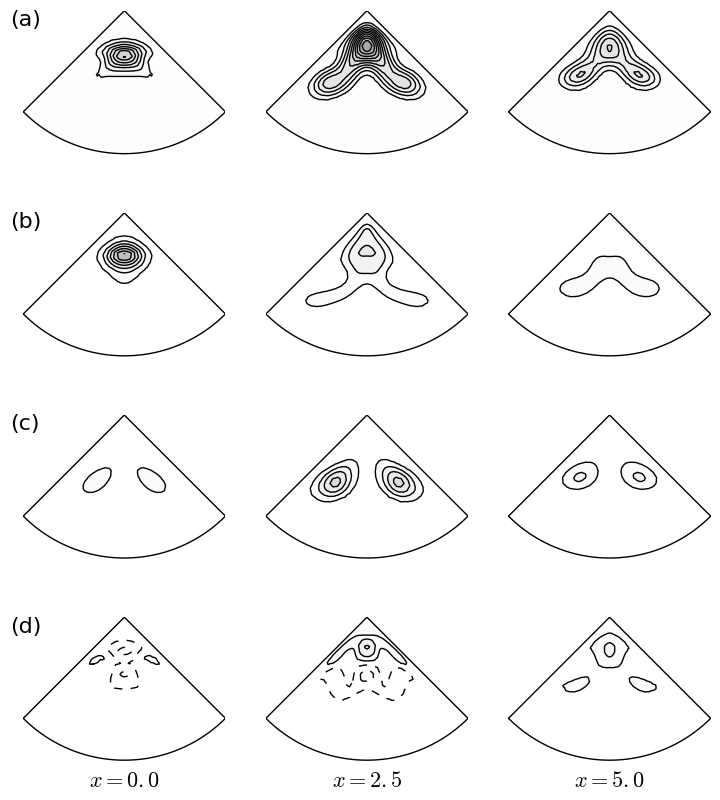
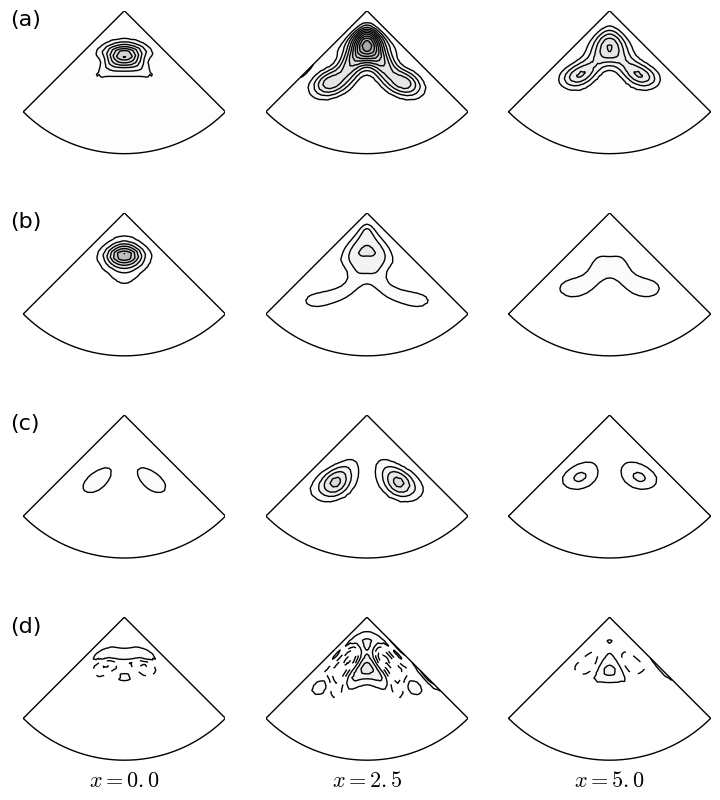
section 3.4 (model puff OX gen) rewrited

Changed region(s): [[0.4278, 0.7812, 0.6111, 0.875], [0.7944, 0.7812, 0.9167, 0.875], [0.1222, 0.7812, 0.2139, 0.875]]

diff --git a/ch3_oxgen.tex b/ch3_oxgen.tex
@@ -110,7 +110,7 @@
 В скалярных переменных уравнение \eqref{ox1_eq} имеет вид:
 \begin{multline}\label{ox2_eq}
 \pd{\omega'_x}{t} + (V_x - c_f)\pd{\omega'_x}{x} + V_r \pd{\omega_x'}{r} + \frac{V_\theta}{r} \pd{\omega'_x}{\theta} 
-- \nu\left(\pd{^2\omega'_x}{x^2} + \pd{^2\omega'_x}{r^2} + \frac{1}{r^2}\pd{^2\omega'_x}{\theta^2} + \frac{1}{r}\pd{\omega'_x}{r}\right) = \\
+- \nu\nabla^2\omega'_x = \\
 - v'_r \pd{\Omega_x}{r} - \frac{v'_\theta}{r} \pd{\Omega_x}{\theta} 
 + \Omega_x \pd{v'_x}{x} + \Omega_r \pd{v'_x}{r} + \frac{\Omega_\theta}{r} \pd{v'_x}{\theta}
 + \omega'_r \pd{V_x}{r} + \frac{\omega'_\theta}{r} \pd{V_x}{\theta} - \\ 
@@ -119,7 +119,7 @@
 + \overline{v'_x \pd{\omega'_x}{x}}^x + \overline{v'_r \pd{\omega'_x}{r}}^x + \overline{\frac{v'_\theta}{r} \pd{\omega'_x}{\theta}}^x
 - \overline{\omega'_x \pd{v'_x}{x}}^x - \overline{\omega'_r \pd{v'_x}{r}}^x - \overline{\frac{\omega'_\theta}{r} \pd{v'_x}{\theta}}^x.
 \end{multline}
-Удобнее работать с уравнением, описывающим изменение среднего квадрата пульсаций продольной завихренности $\overline{\omega'_x\omega'_x}^x$, получающимся умножением каждого из слагаемых в \eqref{ox2_eq} на~$2\omega'_x$ c последующим осреднением вдоль трубы. Слагаемые в этом уравнении не зависят от времени и продольной координаты. Сумма слагаемых в правой части уравнения компенсируется вязкими и конвективными членами в левой части. Как и в предыдущем случае, в правой части уравнения удается выделить существенные слагаемые, ответственные за возникновение пульсаций~$\omega'_x$. 
+Работать удобнее с уравнением, описывающим изменение среднего квадрата пульсаций продольной завихренности $\overline{\omega'_x\omega'_x}^x$, получающимся умножением каждого из слагаемых в \eqref{ox2_eq} на~$2\omega'_x$ c последующим осреднением вдоль трубы. Слагаемые в этом уравнении не зависят от времени и продольной координаты. Сумма слагаемых в правой части уравнения компенсируется вязкими и конвективными членами в левой части. Как и в предыдущем случае, в правой части уравнения удается выделить существенные слагаемые, ответственные за возникновение пульсаций~$\omega'_x$. 
 
 
 Распределение $\overline{\omega'_x \omega'_x}^x$ по сечению трубы изображено на рисунке~\ref{ox1gen_pic}(a). Основные пульсации $\omega'_x$ наблюдаются в центре расчетной области около оси трубы. На месте расположения продольных вихрей также присутствуют пульсации $\omega'_x$, но меньшей интенсивности. В остальной части трубы их амплитуда близка к нулю. Обнаружено, что за генерацию пульсаций $\omega'_x$ в центральной части трубы и на месте продольных вихрей отвечают два разных механизма. Первый дает пульсации большей амплитуды, однако, за возникновение стационарных продольных вихрей ответственны пульсации, производимые вторым механизмом, так как именно они оказываются согласованными с пульсациями $v'_x$ нужным образом.
@@ -161,61 +161,86 @@
 
 \section{Механизм поддержания продольных вихрей и пульсаций продольной завихренности в модельном порыве}
 
-Выделенный при изучении бегущей волны, возникающей в непротяженной расчетной области, механизм образования продольных вихрей может быть обобщен на модельный порыв. В этом случае разделение движения на среднюю и пульсационную составляющие выполняется путем осреднения по времени в системе отсчета, связанной с порывом. Для точной бегущей волны такое осреднение эквивалентно осреднению вдоль трубы. Осреднение по времени позволяет получить те же результаты для точной бегущей волны, и близкие результаты для бегущей волны, выделяемой в модельном порыве. 
+В работе выделен механизм поддержания продольных вихрей в модельном порыве. Это механизм аналогичен механизму, поддерживающему продольные вихри в решении, имеющем вид бегущей волны. При изучении решения, имеющего вид бегущей волны, разделение на среднюю и пульсационную составляющие движения выполняется осреднением вдоль трубы. При изучении модельного порыва осреднение выполняется по времени в сопутствующей системе отсчета. Пусть $\V_{mp} = (V_x, V_r, V_\theta) = \overline{\v_{mp}}^t$ и $\v'_{mp} = (v'_x, v'_r, v'_\theta) = (\v_{mp} - \V_{mp}$) --- средняя и пульсационная составляющие поля скорости модельного порыва $\v_{mp} = (v_x, v_r, v_\theta)$, а $\Om_{mp} = (\Omega_x, \Omega_r, \Omega_\theta) = \rot \V_{mp}$ и $\om'_{mp} = (\omega'_x, \omega'_r, \omega'_\theta) = \rot \v'_{mp}$ --- средняя и пульсационная составляющие поля завихренности $\om_{mp} = (\omega_x, \omega_r, \omega_\theta) = \rot \v_{mp}$ (<<mp>> --- <<model puff>>). 
 
-Разделим поле скорости модельного порыва $\v_{mp}$ на среднюю $\V_{mp} = \overline{\v_{mp}}^t$ и пульсационную $\v'_{mp} = \v_{mp} - \V_{mp}$ составляющие (<<mp>> --- <<model puff>>). Соответственно, завихренность стационарной и пульсационной составляющих движения обозначим $\Om_{mp} = \rot \V_{mp}$ и $\om'_{mp} = \rot \v'_{mp}$. Отметим, что завихренность стационарной составляющей движения равна стационарной составляющей поля завихренности: $\Om = \overline{\om}^t$, где $\om = \rot \v$ --- поле завихренности. Аналогично, завихренность пульсационной составляющей движения равна пульсационной составляющей поля завихренности: $\om' = \om - \Om$. 
-
-Как и в случае бегущей волны, стационарная составляющая поля скорости модельного порыва воспроизводит продольные вихри (смотри рисунок \ref{VEL_cs_pic}). В расчетную область попадает пара таких вихрей. Они ответственны за образование полос повышенной и пониженной скорости. Для того, чтобы установить механизм образования продольных вихрей, обратимся к уравнению, описывающему изменение продольной завихренности \eqref{ox_eq}. Его осреднение по времени позволяет получить уравнение баланса стационарной составляющей продольной завихренности $\Omega_x$, имеющее в данном случае вид:
+Так же, как в бегущей волне, в модельном порыве существуют стационарные продольные  вихри, поддерживающие существование полос, но в этом случае они имеют ограниченную протяженность (смотри рисунок \ref{VEL_cs_pic}). Установить механизм образования стационарных продольных вихрей в модельном порыве позволяет анализ уравнения баланса стационарной продольной завихренности, полученного осреднением по времени в системе отсчета порыва уравнения эволюции продольной завихренности \eqref{ox_eq}: 
 \begin{equation} \label{time_OX_eq}
-\pd{\Omega_x}{t} - \nu\nabla^2 \Omega_x = - (\V - \c_f, \nabla) \Omega_x + (\Om, \nabla) V_x - \overline{(\v', \nabla) \omega'_x}^t + \overline{ (\om', \nabla) v'_x }^t.
+\pd{\Omega_x}{t} - c_{mp} \pd{\Omega_x}{x} + (\V\nabla) \Omega_x - \nu\nabla^2 \Omega_x = (\Om\nabla) V_x - \overline{(\v'\nabla) \omega'_x}^t + \overline{(\om'\nabla) v'_x}^t.
 \end{equation}
-Уравнение \eqref{time_OX_eq} аналогично уравнению \eqref{OX_eq} за тем исключением, что в этом случае осреднение производится по времени. Слагаемые в правой части \eqref{time_OX_eq} можно рассматривать как источники $\Omega_x$. Они <<наполняют>> функцию $\Omega_x$ до тех пор, пока их действие не уравновесит вязкость. Среди них могут быть выделены слагаемые, определяющие форму поля $\Omega_x$, связанные с механизмом его формирования. Удобнее работать с уравнением баланса квадрата стационарной продольной завихренности $\Omega_x^2$, полученным скалярным умножением \eqref{time_OX_eq} на $2\Omega_x$. Положительное или отрицательное значение источниковых членов в этом уравнении говорит о положительном или отрицательном их влиянии на образование $\Omega_x$. 
+Здесь $c_{mp}$ --- скорость перемещения модельного порыва. В правой части \eqref{time_OX_eq} собраны слагаемые--источники $\Omega_x$. Первое из них описывает образование $\Omega_x$ за счет сжатия, растяжения и поворота существующих в среднем течении вихрей. Второе и третье описывают нелинейное взаимодействие пульсаций. Так как $\Omega_x$ во времени не меняется, производство $\Omega_x$ слагаемыми из правой части уравнения компенсируется конвективным и вязким слагаемыми в левой его части. 
+
+В скалярных переменных уравнение \eqref{time_OX_eq} имеет вид:
+\begin{multline}\label{time_OX1_eq}
+\pd{\Omega_x}{t} + (V_x - c_{mp})\pd{\Omega_x}{x} + V_r \pd{\Omega_x}{r} + \frac{V_\theta}{r} \pd{\Omega_x}{\theta} - \nu\nabla^2\Omega_x= \Omega_x \pd{V_x}{x} + \Omega_r \pd{V_x}{r} + \\ + \frac{\Omega_\theta}{r} \pd{V_x}{\theta}
+ - \overline{v'_x \pd{\omega'_x}{x}}^t - \overline{v'_r \pd{\omega'_x}{r}}^t - \overline{\frac{v'_\theta}{r} \pd{\omega'_x}{\theta}}^t
+ + \overline{\omega'_x \pd{v'_x}{x}}^t + \overline{\omega'_r \pd{v'_x}{r}}^t + \overline{\frac{\omega'_\theta}{r} \pd{v'_x}{\theta}}^t.
+\end{multline}
+Работать удобнее с уравнением баланса квадрата стационарной продольной завихренности $\Omega_x^2$, полученным скалярным умножением \eqref{time_OX_eq} на $2\Omega_x$. Положительное или отрицательное значение источниковых членов в этом уравнении говорит о положительном или отрицательном их влиянии на образование~$\Omega_x$. 
 
 
 \begin{figure}[h]
 \center{\includegraphics[width=1\linewidth]{puff_OXgen.png}}
-\caption{В нескольких сечения трубы приведено значение $\Omega_x^2$ (ряд (а)), а также вклад в образование $\Omega_x^2$ со стороны \eqref{time_OXgen_terms} (ряд (b)) и других слагаемых в правой части уравнения \eqref{time_OX_eq} (ряд (c)). Представлено три сечения из области существования продольных вихрей, $x=0,2.5,5$. Сплошные изолинии соответствуют положительным значениям, прерывистые --- отрицательным.}
+\caption{В нескольких сечения трубы приведено значение $\Omega_x^2$ (ряд (а)) и вклад в образование $\Omega_x^2$ со стороны \eqref{time_OXgen_terms} (ряд (b)) и других слагаемых в правой части уравнения \eqref{time_OX_eq} (ряд (c)). Представлено три сечения из области существования продольных вихрей, $x=0,2.5,5$. Сплошные линии соответствуют положительным значениям, прерывистые --- отрицательным.}
 \label{mp_OXgen_pic}
 \end{figure}
 
-Анализ уравнения \eqref{time_OX_eq} позволил установить механизм образования стационарных продольных вихрей аналогичный выделенному при изучении бегущей волны. За образование продольных вихрей в этом случае ответственна пара слагаемых, сохраненная в уравнении ниже: 
+Анализ уравнения \eqref{time_OX_eq} позволил установить механизм поддержания стационарных продольных вихрей, аналогичный выделенному при изучении бегущей волны. За поддержание стационарных продольных вихрей отвечают слагаемые 
 \begin{equation} \label{time_OXgen_terms}
-\pd{\Omega_x}{t} = - \overline{v'_x \pd{\omega'_x}{x}}^t + \overline{\omega'_x \pd{v'_x}{x}}^t + ... 
+- \overline{v'_x \pd{\omega'_x}{x}}^t + \overline{\omega'_x \pd{v'_x}{x}}^t. 
 \end{equation}
-Слагаемые \eqref{time_OXgen_terms} соответствуют слагаемым \eqref{OXgen_terms}, выделенным при изучении бегущей волны. На рисунке \ref{mp_OXgen_pic} в ряду (а) представлен квадрат продольной завихренности $\Omega_x^2$ в трех сечениях трубы. Его распределение соответствует паре продольных вихрей, расположенных по бокам от полосы замедления (проходящей через центр расчетной области). На рисунке \ref{mp_OXgen_pic} в рядах (b) и (с) в тех же сечения приведен вклад \eqref{time_OXgen_terms} и других слагаемых в правой части уравнения \eqref{time_OX_eq} в образование $\Omega_x^2$. Вклад слагаемых \eqref{time_OXgen_terms} значительно превосходит по величине вклад других слагаемых почти во всех сечениях, он повторяет и определяет форму поля $\Omega_x$. 
+На рисунке \ref{mp_OXgen_pic} в ряду (а) приведено значение $\Omega_x^2$ в трех сечениях трубы из области, где продольные вихри имеют существенную амплитуду. Распределение стационарной продольной завихренности соответствует наличию стационарных продольных вихрей. На рисунке \ref{mp_OXgen_pic} в рядах (b) и (с) в тех же сечения приведены значение слагаемых \eqref{time_OXgen_terms}, умноженных на $2\Omega_x$, и значение других слагаемых в правой части уравнения \eqref{time_OX_eq}, также умноженных на $2\Omega_x$. Вклад слагаемых \eqref{time_OXgen_terms} в генерацию $\Omega_x^2$ значительно превосходит вклад других источниковых членов и определяют форму поля стационарной продольной завихренности. 
 
 \begin{figure}
 \center{\includegraphics[width=0.5\linewidth]{xline_OXgen.png}\includegraphics[width=0.5\linewidth]{xline_ox1gen.png}}
-\caption{На прямой, проходящей через область, занятую продольным вихрем, при $r = 0.5, \theta = \pi/8$, приведены: (a) --- Квадрат стационарной продольной завихренности (кривая 1), вклад в его производство со стороны \eqref{time_OXgen_terms} (кривая  2) и других слагаемых в правой части уравнения \eqref{time_OX_eq} (кривая 3); (b) --- средний квадрат пульсаций продольной завихренности $\overline{\omega'_x \omega'_x}^t$ (кривая 1) и вклад в его производство со стороны \eqref{time_ox1gen_terms1} (кривая  2), \eqref{time_ox1gen_term2} (кривая  3) и других слагаемых в правой части уравнения \eqref{time_ox1_eq} (кривая  4).}
+\caption{На прямой, проходящей через область, занятую продольным вихрем, при $r = 0.5, \theta = \pi/8$, приведены: (a) --- квадрат стационарной продольной завихренности (кривая 1), вклад в его производство со стороны \eqref{time_OXgen_terms} (кривая  2) и других слагаемых в правой части уравнения \eqref{time_OX_eq} (кривая 3); (b) --- средний квадрат пульсаций продольной завихренности $\overline{\omega'_x \omega'_x}^t$ (кривая 1) и вклад в его производство со стороны \eqref{time_ox1gen_terms1} (кривая  2), \eqref{time_ox1gen_term2} (кривая  3) и других слагаемых в правой части уравнения \eqref{time_ox1_eq} (кривая  4).}
 \label{xline_oxgen_pic}
 \end{figure}
 
-На рисунке \ref{xline_oxgen_pic}(a) приведено значение выделенных слагаемых на прямой, проходящей через область, занятую продольным вихрем, $r = 0.5, \theta = \pi/8$. Хотя существует небольшой участок, на котором вклад других слагаемых в правой части уравнения \eqref{time_OX_eq} (изображенный кривой 3) превосходит вклад слагаемых \eqref{time_OXgen_terms} (изображенных кривой 2), выделенные слагаемые определяют форму поля $\Omega_x^2$ (изображенного кривой 1). Таким образом, нет сомнения, что за генерацию стационарных продольных вихрей ответственна выделенная пара слагаемых. Среди слагаемых, представленных кривой 3, можно выделить конвективное слагаемое. Оно переносит $\Omega_x$ вверх по течению, о чем говорит то, что в области $x \approx 3$ оно дает отрицательный вклад, а в области $x \approx 0$ --- положительный. 
+На рисунке \ref{xline_oxgen_pic}(a) приведено значение $\Omega_x^2$ (кривая 1) и ответственных за его генерацию слагаемых на прямой, проходящей через область, занятую продольным вихрем, при $r = 0.5, \theta = \pi/8$. Из этих графиков также видно, что хотя существует небольшой участок вблизи $x=0$, на котором слагаемые \eqref{time_OXgen_terms} (кривая 2) уступают другим источниковым слагаемым (кривая 3), именно эти слагаемые дают подавляющий вклад в образование стационарной продольной завихренности. Таким образом, нет сомнения, что за генерацию стационарных продольных вихрей ответственны слагаемые \eqref{time_OXgen_terms}. 
 
-В модельном порыве, также как и в бегущей волне, оба слагаемых \eqref{time_OXgen_terms} близки друг к другу по величине. Сохраняется отмеченная в предыдущем разделе согласованность фаз между пульсациями продольной скорости $v'_x$ и продольной завихренности $\omega'_x$, однако форма пульсационной составляющей движения оказывается несколько более сложной. Согласованность фаз объясняется механизмом образования пульсаций продольной завихренности $\omega'_x$, выделенным в модельном порыве, который также совпадает с механизмом, найденным в бегущей волне. 
+\begin{figure}[h]
+\center{\includegraphics[width=1\linewidth]{OXgen_terms_cmp.png}}
+\caption{Значение первого (ряд (а)) и второго (ряд (b)) слагаемых \eqref{time_OXgen_terms} в сечениях трубы $x=0,2.5,5$. Сплошные линии соответствуют положительным значениям, прерывистые --- отрицательным.}
+\label{OXgen_terms_cmp_pic}
+\end{figure}
+
+В модельном порыве, слагаемые \eqref{time_OXgen_terms} имеют близкие значения (см. рис. \ref{OXgen_terms_cmp_pic}), так как поле скорости модельного порыва в области существования продольных вихрей близко к полю скорости бегущей волны. В модельном порыве сохраняется отмеченная в предыдущем разделе согласованность фаз между пульсациями продольной скорости $v'_x$ и пульсациями продольной завихренности $\omega'_x$, однако форма пульсационной составляющей движения оказывается несколько более сложной. Согласованность фаз объясняется механизмом образования пульсаций продольной завихренности $\omega'_x$, выделенным в модельном порыве, который также аналогичен механизму, найденному в бегущей волне. 
 
 \begin{figure}[h!]
 \center{\includegraphics[width=0.9\linewidth]{puff_ox1gen.png}}
-\caption{В нескольких сечения трубы изображена интенсивность пульсаций продольной завихренности $\overline{\omega'_x \omega'_x}^t$ (ряд а) и вклад в её генерацию со стороны слагаемых \eqref{time_ox1gen_terms1} (ряд b), слагаемого \eqref{time_ox1gen_term2} (ряд с) и других слагаемых в правой части \eqref{time_ox1_eq} (ряд d). Сплошные изолинии соответствуют положительным значениям, прерывистые --- отрицательным.}
+\caption{В нескольких сечения трубы изображена интенсивность пульсаций продольной завихренности $\overline{\omega'_x \omega'_x}^t$ (ряд а) и вклад в её генерацию со стороны слагаемых \eqref{time_ox1gen_terms1} (ряд b), слагаемого \eqref{time_ox1gen_term2} (ряд с) и других слагаемых в правой части \eqref{time_ox1_eq} (ряд d). Сплошные линии соответствуют положительным значениям, прерывистые --- отрицательным.}
 \label{mp_ox1gen_pic}
 \end{figure}
 
-Выделить механизм образования пульсаций продольной завихренности $\omega'_x$ позволяет анализ уравнения, описывающего её изменение, полученного по аналогии с \eqref{ox1_eq} вычитанием \eqref{time_OX_eq} из \eqref{ox_eq}:
+Выделить механизм образования пульсаций продольной завихренности $\omega'_x$ позволяет анализ уравнения, полученного вычитанием \eqref{time_OX_eq} из \eqref{ox_eq}, описывающего эволюцию $\omega'_x$:
 \begin{multline}\label{time_ox1_eq}
-\pd{\omega'_x}{t} - \nu \nabla^2 \omega'_x = - (\V - \c, \nabla) \omega'_x - (\v', \nabla) \Omega_x +(\Om, \nabla) v'_x + (\om', \nabla) V_x - \\ - (\v', \nabla) \omega'_x  + (\om', \nabla) v'_x  + \overline{(\v', \nabla) \omega'_x)}^t  - \overline{(\om', \nabla)}^t
+\pd{\omega'_x}{t} - c_{mp}\pd{\omega'_x}{x} + (\V\nabla) \omega'_x - \nu \nabla^2 \omega'_x = - (\v'\nabla) \Omega_x +(\Om\nabla) v'_x + \\ + (\om'\nabla) V_x - (\v'\nabla) \omega'_x  + (\om'\nabla) v'_x  + \overline{(\v'\nabla) \omega'_x}^t  - \overline{(\om'\nabla)v'_x}^t.
 \end{multline}
-Удобнее работать с уравнением, определяющим интенсивность пульсаций продольной завихренности $\overline{\omega'_x \omega'_x}^t$, полученным скалярным умножением \eqref{time_ox1_eq} на~$2 \omega'_x$ с последующим осреднением по времени. Анализ этого уравнения позволяет выделить две группы слагаемых, ответственных за образование пульсаций продольной завихренности, имеющих вид:
+В скалярных переменных уравнение \eqref{time_ox1_eq} имеет вид:
+\begin{multline}\label{time_ox2_eq}
+\pd{\omega'_x}{t} + (V_x - c_{mp})\pd{\omega'_x}{x} + V_r \pd{\omega_x'}{r} + \frac{V_\theta}{r} \pd{\omega'_x}{\theta} 
+- \nu\nabla^2\omega'_x = - v'_x \pd{\Omega_x}{x} - v'_r \pd{\Omega_x}{r} - \\ - \frac{v'_\theta}{r} \pd{\Omega_x}{\theta} 
++ \Omega_x \pd{v'_x}{x} + \Omega_r \pd{v'_x}{r} + \frac{\Omega_\theta}{r} \pd{v'_x}{\theta}
++ \omega'_x \pd{V_x}{x} + \omega'_r \pd{V_x}{r} + \frac{\omega'_\theta}{r} \pd{V_x}{\theta} - \\ 
+- v'_x \pd{\omega'_x}{x} - v'_r \pd{\omega'_x}{r} - \frac{v'_\theta}{r} \pd{\omega'_x}{\theta} 
++ \omega'_x \pd{v'_x}{x} + \omega'_r \pd{v'_x}{r} + \frac{\omega'_\theta}{r} \pd{v'_x}{\theta} + \\
++ \overline{v'_x \pd{\omega'_x}{x}}^t + \overline{v'_r \pd{\omega'_x}{r}}^t + \overline{\frac{v'_\theta}{r} \pd{\omega'_x}{\theta}}^t
+- \overline{\omega'_x \pd{v'_x}{x}}^t - \overline{\omega'_r \pd{v'_x}{r}}^t - \overline{\frac{\omega'_\theta}{r} \pd{v'_x}{\theta}}^t.
+\end{multline}
+Работать удобнее с уравнением баланса пульсаций продольной завихренности $\overline{\omega'_x \omega'_x}^t$, полученным скалярным умножением \eqref{time_ox2_eq} на~$2 \omega'_x$ с последующим осреднением по времени. Анализ этого уравнения позволил выделить две группы слагаемых, ответственных за образование пульсаций продольной завихренности, имеющих вид:
 \begin{equation}\label{time_ox1gen_terms1}
 \frac{\d \omega'_x}{\d t} = \omega'_r \frac {\d V_x}{\d r} + \frac{\Omega_\theta}{r} \frac{\d v'_x}{\d \theta} + 
 \end{equation}
 \begin{equation}\label{time_ox1gen_term2}
 +\Omega_x \frac {\d v'_x}{\d x} + ...
 \end{equation}
-Слагаемые \eqref{time_ox1gen_terms1} отвечают за поворот нормальных к стенке вихрей, возникающих в пульсационной составляющей движения. Приобретая продольную составляющую эти вихри обеспечивают формирование значительных по амплитуде пульсаций $\omega'_x$ в области между полосой замедления и осью трубы. Вклад \eqref{time_ox1gen_terms1} в $\overline{\omega'_x \omega'_x}^t$ представлен на рисунке \ref{mp_ox1gen_pic} в нескольких сечения трубы. Он имеет значительную амплитуду и отвечает за формирование пульсаций $\omega'_x$ в центральной части расчетной области (распределение $\overline{\omega'_x \omega'_x}^t$ представлено на рисунке \ref{mp_ox1gen_pic} в ряду (a)). Однако на месте существования продольных вихрей влияние слагаемых \eqref{time_ox1gen_terms1} невелико. Кроме того, пульсации, формируемые слагаемыми \eqref{time_ox1gen_terms1}, согласованны по фазе с пульсациями $v'_x$ так, что их нелинейное взаимодействие, выраженное слагаемыми \eqref{time_OXgen_terms}, близко к нулю. За образование продольных вихрей ответственно слагаемое \eqref{time_ox1gen_term2}. Его вклад в $\overline{\omega'_x \omega'_x}^t$ представлен на рисунке \ref{mp_ox1gen_pic} в ряду (c). Оно создает пульсации $\omega'_x$ на месте существования продольных вихрей, согласованные с пульсациями $v'_x$ так, что их нелинейное взаимодействие эффективно поддерживает существование продольных вихрей. Другие слагаемые в правой части уравнения \eqref{time_ox1_eq} существенного влияния на интенсивность $\omega'_x$ не оказывают, их вклад в образование $\overline{\omega'_x \omega'_x}^t$ приведен в ряду (d). Можно отметить, что они включают конвективные слагаемые, обеспечивающие перенос существующих пульсаций $\omega'_x$, создаваемых слагаемым \eqref{time_ox1gen_terms1}, вниз по течению. При $x \le 0$ в области между полосой замедления и осью трубы конвективное слагаемое дает отрицательный вклад, а при $x \ge 2$ --- положительный, так как оно переносит $\omega'_x$ из первой области во вторую.
 
-На рисунке \ref{xline_oxgen_pic}(b) приведено значение вклада в формирование $\overline{\omega'_x \omega'_x}^t$ каждой из выделенных групп слагаемых на прямой, проходящей через область, занятую продольным вихрем, $r = 0.5, \theta = \pi/8$. Как только что обсуждалось, подавляющий вклад в образование $\overline{\omega'_x \omega'_x}^t$  дает слагаемое \eqref{time_ox1gen_term2} (кривая~3). Оно определяет интенсивность пульсаций $\omega'_x$ на этой прямой (значение $\overline{\omega'_x \omega'_x}^t$ представлено кривой 1). Другие слагаемые в правой части уравнения (кривые 2, 4) существенного влияния не оказывают. Группа слагаемых, которым соответствует кривая 4, включает конвективное слагаемое, обеспечивающее перенос пульсаций $\omega'_x$ в этой области вниз по течению, в результате чего при $x \approx 3$ это слагаемое дает отрицательный вклад, а при $x \approx 5$ --- положительный. 
+На рисунке \ref{mp_ox1gen_pic} в нескольких сечениях трубы приведены амплитуда пульсаций продольной завихренности $\overline{\omega'_x \omega'_x}^t$ (ряд (а)) и вклада в её поддержание со стороны слагаемых \eqref{time_ox1gen_terms1} (ряд (b)), слагаемых \eqref{time_ox1gen_term2} (ряд (с)) и слагаемых в правой части уравнения \eqref{time_ox2_eq}, не вошедших в \eqref{time_ox1gen_terms1} и \eqref{time_ox1gen_term2}, (ряд (d)). (Для того, чтобы вычислить вклад слагаемых уравнения \eqref{time_ox2_eq} в генерацию $\overline{\omega'_x \omega'_x}^t$, их значение умножено на $2\omega'_x$ с последующим осреднением по времени.) Слагаемые \eqref{time_ox1gen_terms1} отвечают за поворот нормальных к стенке вихрей, присутствующих в пульсационной составляющей движения. Приобретая продольную составляющую, эти вихри обеспечивают формирование значительных по амплитуде пульсаций $\omega'_x$ в области между полосой замедления и осью трубы. Однако на месте продольных вихрей эти слагаемые на $\omega'_x$ существенного влияния не оказывают. Кроме того, пульсации $\omega'_x$, создаваемые слагаемыми \eqref{time_ox1gen_terms1}, согласованны с пульсациями $v'_x$ таким образом, что не могут участвовать в поддержании $\Omega_x$. За образование пульсаций $\omega'_x$ на месте продольных вихрей ответственно слагаемое \eqref{time_ox1gen_term2}. Это слагаемое создает пульсации $\omega'_x$, согласованные с пульсациями $v'_x$ так, что их нелинейное взаимодействие эффективно поддерживает существование продольных вихрей. Другие слагаемые в правой части уравнения \eqref{time_ox2_eq} на месте продольных вихрей существенного влияния на $\omega'_x$ не оказывают. 
 
-В этом разделе было показано, что выделенный при изучении бегущей волны механизм образования продольных вихрей, обеспечивает их формирование также и в модельном порыве. 
+
+На рисунке \ref{xline_oxgen_pic} приведена интенсивность пульсаций продольной завихренности $\overline{\omega'_x \omega'_x}^t$ (кривая 1) и вклад в её поддержание со стороны различных слагаемых уравнения \eqref{time_ox2_eq} на прямой, проходящей через область, занятую продольным вихрем, $r = 0.5, \theta = \pi/8$. Как только что обсуждалось, подавляющий вклад в генерацию $\overline{\omega'_x \omega'_x}^t$ дает слагаемое \eqref{time_ox1gen_term2} (кривая~3). Это слагаемое определяет интенсивность пульсаций $\omega'_x$ в области, занятой продольными вихрями. Другие слагаемые в правой части уравнения (кривые 2, 4) имеют значительно меньшее влияние. Таким образом может быть сделан вывод о том, что за образование пульсаций $\omega'_x$, участвующих в поддержании стационарных продольных вихрей, ответственно слагаемое \eqref{time_ox1gen_term2}. Это слагаемое отвечает за сжатие и растяжение существующих в стационарном течении вихревых нитей и обеспечивает необходимую для поддержания стационарных продольных вихрей согласованность фаз между $\omega'_x$ и $v'_x$ (см. детали в предыдущем разделе). 
+
+Выделен механизм поддержания стационарных продольных вихрей в модельном порыве. Выделенный механизм аналогичен механизму поддержания продольных вихрей в решении, имеющем вид бегущей волны. Сжимая и растягивая существующие вихревые нити, соответствующие стационарным продольным вихрям, пульсации продольной скорости формируют пульсации продольной завихренности, согласованные с пульсациями продольной скорости таким образом, что их нелинейное взаимодействие поддерживает существование продольных вихрей. 
 
 
 \section{Выводы по главе}
